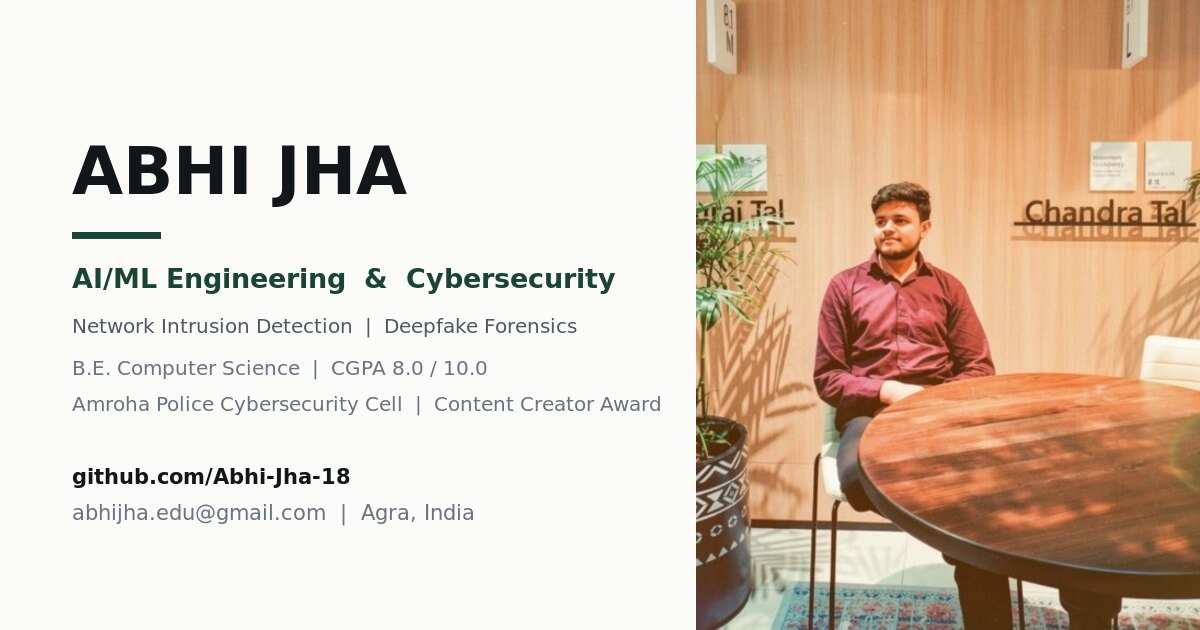
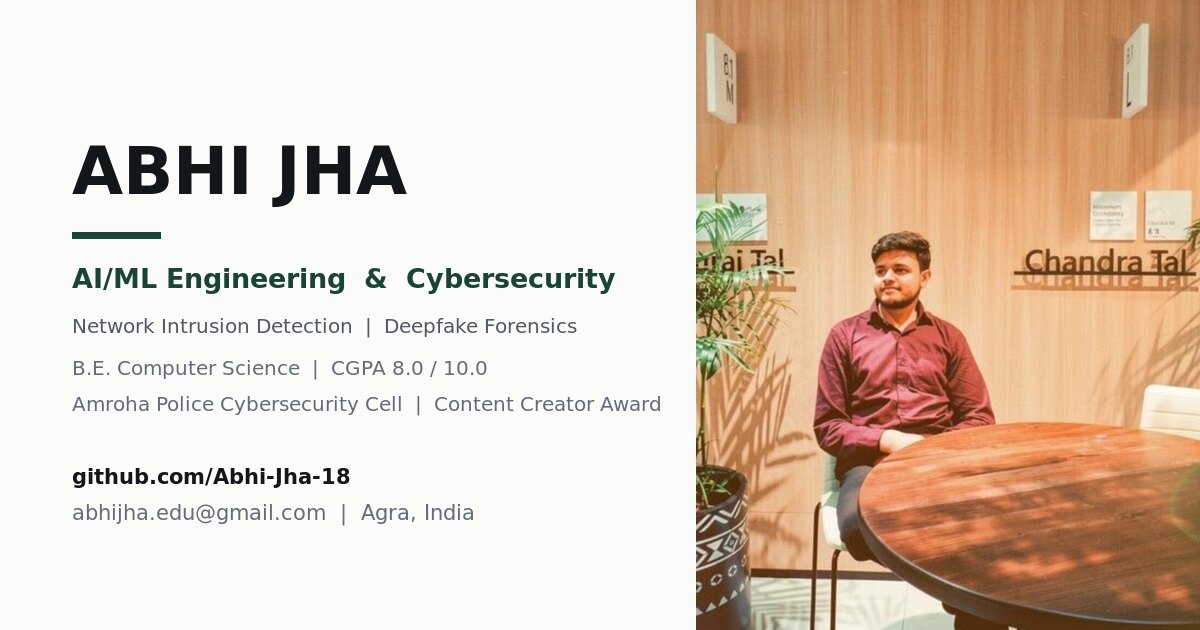
Re-crop the portrait and fix a clipped overlay card
Crop
- The subject sat small in frame with the table dominating the lower third, and
  because the frame is 4:5 with object-fit:cover, only the middle slice of the
  source was ever visible. Recropped to 460x575+75+140 from the original
  575x766 source: the subject now fills the frame properly.
- 460/575 and the frame's 440/550 are both exactly 0.8, so cover now performs no
  additional cropping at any frame size — the composition is exactly as chosen,
  rather than being cropped twice.
- Shipped as 1x + 2x so HiDPI screens get a real Lanczos resample instead of the
  browser upscaling. The 1x AVIF is 16.6 KB, smaller than the 28 KB it replaces,
  so the extra tier costs nothing. WebP and JPEG fallbacks included.
- <link rel=preload> gained imagesrcset/imagesizes mirroring the <picture> so
  HiDPI displays preload the 2x candidate.
- The social card is rebuilt from the same crop so the two stay consistent.

Overlay card (pre-existing bug)
- .portrait-overlay-card is positioned at bottom/left:-1.5rem, but
  .portrait-frame set overflow:hidden, so the card was clipped by its own
  parent: ~31% of its height was cut off, including the bottom of the icon and
  text, and the left edge lost its padding so the text hugged the frame border.
- overflow:hidden moved onto a new .portrait-media wrapper that clips only the
  photograph, keeping the hover zoom inside the rounded corners while letting
  the card overhang as designed. The card now clears the frame by 11.5px into
[…]

Changed region(s): [[0.555, 0.0, 1.0, 1.0]]

diff --git a/index.html b/index.html
@@ -41,8 +41,11 @@
   <link rel="preconnect" href="https://fonts.gstatic.com" crossorigin>
   <link rel="stylesheet" href="https://fonts.googleapis.com/css2?family=Instrument+Serif:ital@0;1&amp;family=Plus+Jakarta+Sans:ital,wght@0,400;0,500;0,600;0,700;0,800;1,400&amp;family=JetBrains+Mono:wght@400;500;600&amp;display=swap">
 
-  <!-- Preload the LCP image -->
-  <link rel="preload" as="image" href="assets/images/portrait-575.avif" type="image/avif" fetchpriority="high">
+  <!-- Preload the LCP image. imagesrcset/imagesizes mirror the <picture> below
+       so HiDPI displays preload the 2x candidate rather than the 1x. -->
+  <link rel="preload" as="image" href="assets/images/portrait-460.avif" type="image/avif"
+        imagesrcset="assets/images/portrait-460.avif 1x, assets/images/portrait-920.avif 2x"
+        imagesizes="(max-width: 1024px) 380px, 440px" fetchpriority="high">
 
   <link rel="stylesheet" href="style.css">
 
@@ -210,12 +213,16 @@
 
           <div class="hero-visual-wrapper">
             <div class="portrait-frame">
-              <picture>
-                <source srcset="assets/images/portrait-575.avif" type="image/avif">
-                <source srcset="assets/images/portrait-575.webp" type="image/webp">
-                <img src="assets/images/portrait.jpg" alt="Portrait of Abhi Jha" class="portrait-img" id="heroPortrait"
-                     width="575" height="766" fetchpriority="high" decoding="async">
-              </picture>
+              <div class="portrait-media">
+                <picture>
+                  <source srcset="assets/images/portrait-460.avif 1x, assets/images/portrait-920.avif 2x"
+                          sizes="(max-width: 1024px) 380px, 440px" type="image/avif">
+                  <source srcset="assets/images/portrait-460.webp 1x, assets/images/portrait-920.webp 2x"
+                          sizes="(max-width: 1024px) 380px, 440px" type="image/webp">
+                  <img src="assets/images/portrait.jpg" alt="Portrait of Abhi Jha" class="portrait-img" id="heroPortrait"
+                       width="460" height="575" fetchpriority="high" decoding="async">
+                </picture>
+              </div>
               <div class="portrait-corner-decor">AI_SEC // CYBER_CELL</div>
 
               <div class="portrait-overlay-card">

diff --git a/style.css b/style.css
@@ -564,10 +564,23 @@ button {
   max-width: 440px;
   aspect-ratio: 4 / 5;
   border-radius: var(--radius-lg);
-  overflow: hidden;
-  box-shadow: var(--shadow-lg);
+  /* NOTE: no `overflow: hidden` here — the overlay card is positioned at
+     bottom/left: -1.5rem on purpose, and clipping at this level cut ~31% of it
+     off. The image is clipped by .portrait-media instead, so the card can
+     overhang the frame as intended. */
   border: 1px solid var(--border-medium);
   background: var(--bg-surface-elevated);
+  box-shadow: var(--shadow-lg);
+}
+
+/* Clips only the photograph: keeps the image zoom inside the rounded corners
+   while letting .portrait-overlay-card spill outside the frame. */
+.portrait-media {
+  position: relative;
+  width: 100%;
+  height: 100%;
+  border-radius: calc(var(--radius-lg) - 1px);
+  overflow: hidden;
 }
 
 .portrait-img {
